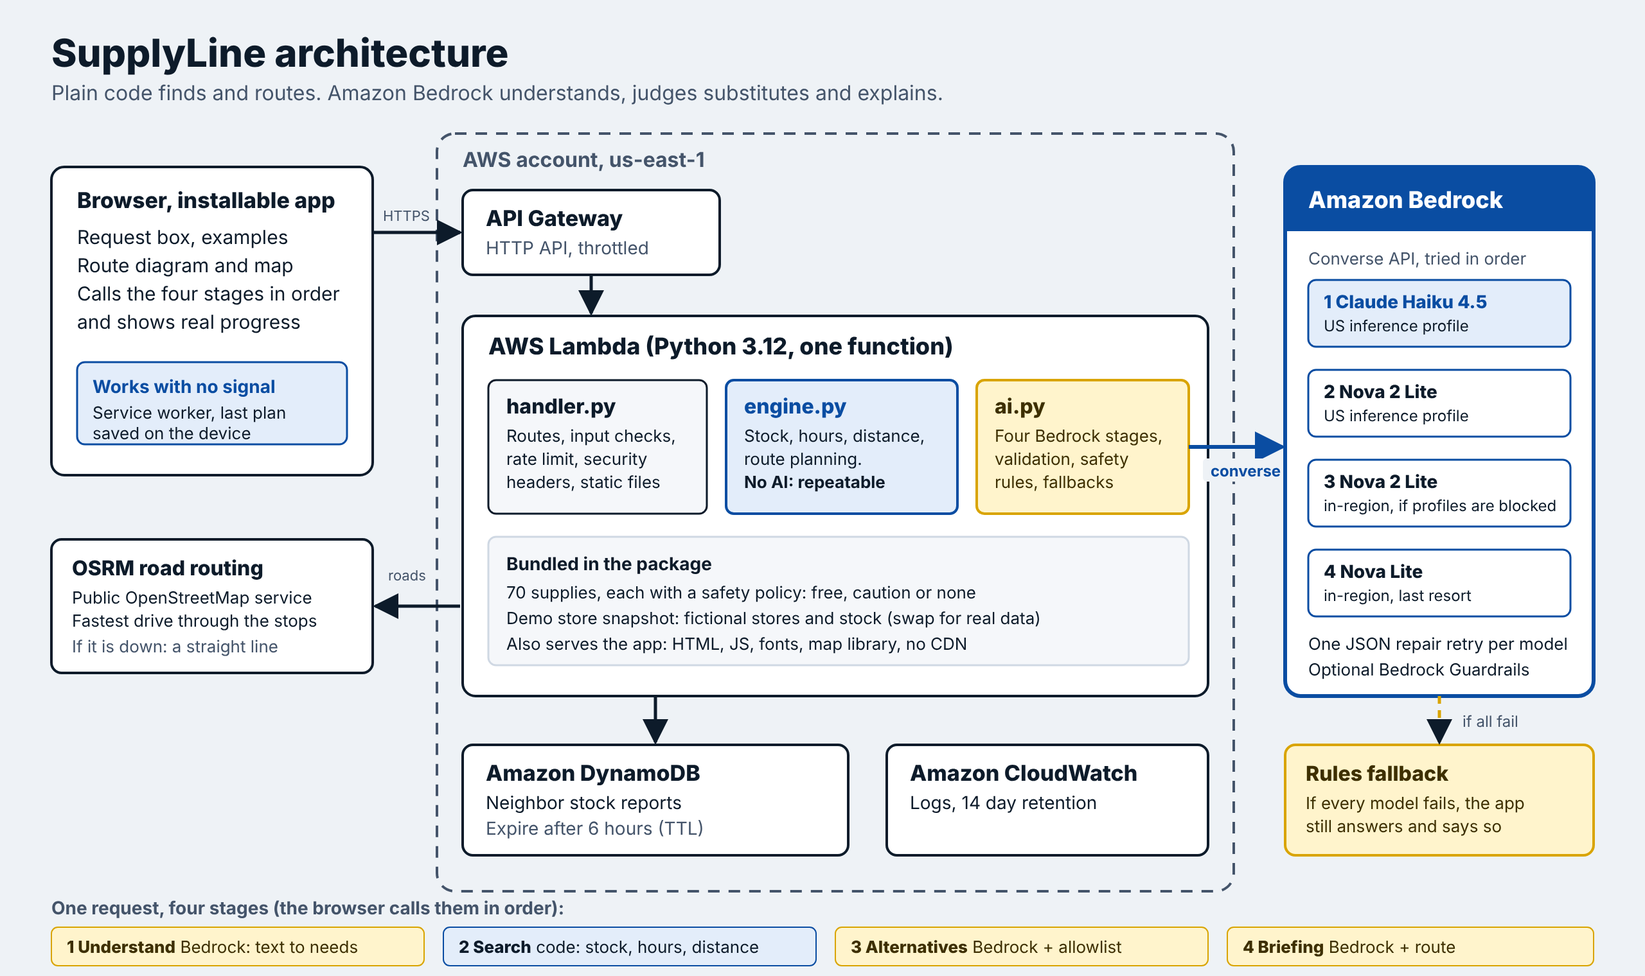
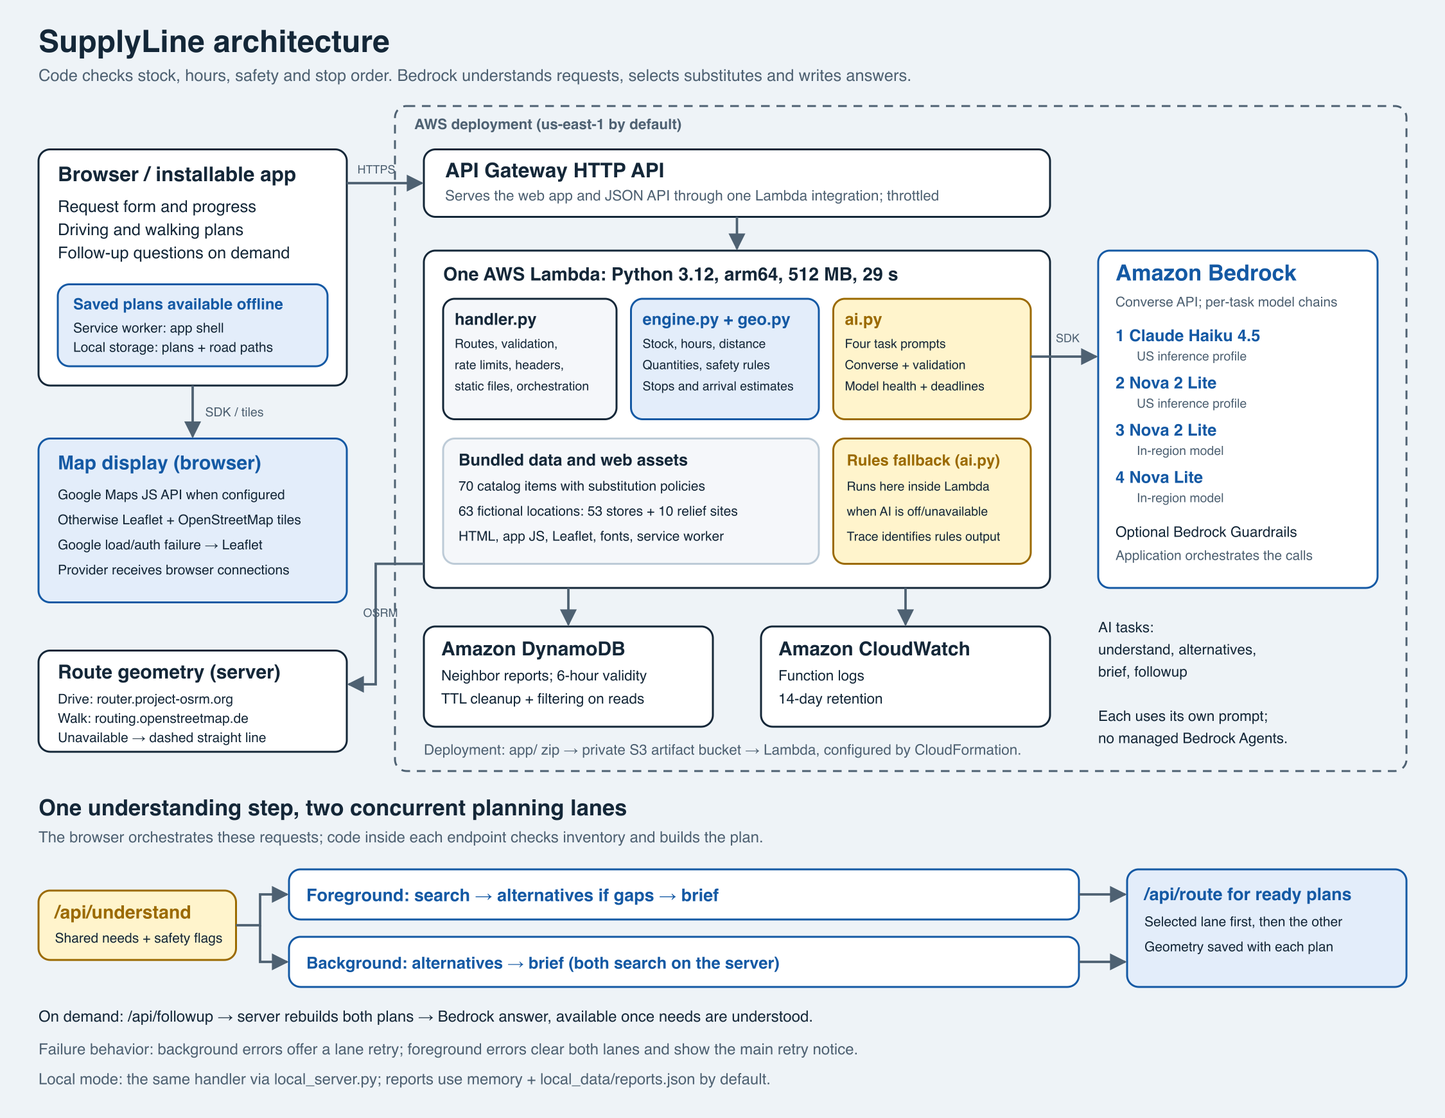
Update architecture documentation and diagram to match the app

Changed region(s): [[0.0, 0.0309, 0.9956, 0.9895]]

diff --git a/docs/ARCHITECTURE.md b/docs/ARCHITECTURE.md
@@ -18,42 +18,46 @@
 
 ## Request flow
 
-Driving and walking are two lanes over the same stores. Each lane is `search` then `alternatives` then `brief`, built by its own agents. After the request is understood the browser starts the lane that is not on screen in the background, while it walks the lane on screen through the four steps below, so both plans take about as long as one and switching is instant. Neither lane waits for the other, and one failing does not stop the other (it shows "unavailable" with a retry). The assistant is a separate agent that reads the situation on the server, so it can answer before either lane is ready.
+Driving and walking are two lanes over the same stores. The browser understands the request once, then starts both lanes concurrently. The foreground lane calls `search`, `alternatives` when gaps exist, and `brief`. The background lane calls `alternatives` and `brief`; both endpoints search again on the server, so it needs no separate `search` request. Each lane gets its own substitutes and briefing calls with its travel mode. Switching to a completed lane needs no new planning calls; a lane still building shows a loading state. The assistant reads the situation on the server and can answer before either lane is ready.
+
+A background failure marks that lane "unavailable" with a retry and leaves the foreground lane alone. A foreground failure invalidates the search, clears both lanes, and shows the main retry notice. Failure isolation is therefore asymmetric.
 
 ```
-understand ─┬─ lane on screen:  search → alternatives → brief → path   (progress steps shown)
-            ├─ other lane:      alternatives → brief → path            (background)
-            └─ assistant:       answers from both plans, any time
+understand ─┬─ foreground: search → alternatives if gaps → brief
+            ├─ background: alternatives → brief (search runs inside both endpoints)
+            └─ assistant: /api/followup on demand, from server-rebuilt plan facts
+
+ready plans → /api/route for the selected lane, then the other lane
 ```
 
-The browser runs four calls in order for the lane on screen, so the progress shown on screen is real and each stage can fail on its own.
+The foreground progress follows these four stages; the alternatives call is skipped when search finds no gaps. The four AI tasks are understand, alternatives, brief and followup; search is plain code.
 
 1. `POST /api/understand` (Bedrock). Free text in, structured needs out. The model may only use catalog item IDs. Output is parsed, cleaned, and merged with a keyword safety net for 911 situations.
 2. `POST /api/search` (code). For each need: stores within the radius, stock at the arrival time, opening hours with a 15 minute closing buffer, snapshot age and confidence, and neighbor reports that override older snapshots.
-3. `POST /api/alternatives` (Bedrock). Only called for items nobody has. The model is shown the pool of substitutes that are **in stock nearby** and, for `caution` items, only the allowlist. Its answer is re-validated in `ai.py` and again in `engine.build_plan`.
+3. `POST /api/alternatives` (code and Bedrock). Repeats the search for that travel mode. If gaps remain, the model receives an in-stock candidate pool and each missing item's policy and, for `caution` items, its allowlist. Its answer is re-validated in `ai.py` and again in `engine.build_plan`. When there are no gaps the endpoint returns without calling Bedrock.
 4. `POST /api/brief` (Bedrock). Writes the briefing from the finished plan. The route itself was already fixed by code.
 
 After the plan is shown, the browser draws the stops on the map at once with a straight dashed line, then calls `POST /api/route` (code, plus a public routing service) to swap in the fastest road route through those stops in the plan's order. If that call fails the dashed line stays and the app says so. The road route is saved with the plan so a saved plan shows it offline.
 
-Every stage takes `mode` (`driving`, the default, or `walking`). `POST /api/plan` runs all four in one call (used by `scripts/smoke.py`); with `"modes": ["driving", "walking"]` it runs the two lanes on separate threads, each with a copy of the request context so the Bedrock deadline still applies, and adds `lanes`. `POST /api/followup` is the assistant: it rebuilds both plans on the server from where the person is and what they need, so it never depends on text the browser could have edited. `POST /api/report` stores a neighbor report.
+Search, alternatives, briefing, routing and follow-up take `mode` (`driving`, the default, or `walking`); understand is shared across modes. `POST /api/plan` is the combined planning endpoint used by `scripts/smoke.py`: it understands once, then calls alternatives and brief, whose server-side searches supply the stock facts. With `"modes": ["driving", "walking"]` it runs those lanes on separate threads, each with a copy of the request context so the Bedrock deadline still applies, and adds `lanes`. It does not fetch road geometry. `POST /api/followup` rebuilds both plans on the server from the supplied location, validated needs and alternatives. If supplied, `plan_text` is also included as context; callers without a valid situation can use that text alone. `POST /api/report` stores a neighbor report.
 
 ## Amazon Bedrock use
 
 * **API:** Converse, with a system prompt per stage, low temperature for the structured stages, and a token cap.
-* **One agent per task:** `ai.AGENTS` gives `understand`, `alternatives`, `brief` and `followup` each their own output size, temperature and time budget, and `BEDROCK_MODEL_IDS_<TASK>` gives one its own model chain. The agents share nothing they change. What a model's health says (not enabled, throttled) is shared by model, because it is true for every task that uses that model. Traces carry the agent and, for the briefing and substitutes agents, the lane (`driving` or `walking`).
+* **One agent per task:** `ai.AGENTS` gives `understand`, `alternatives`, `brief` and `followup` each their own output size, temperature and time budget, and `BEDROCK_MODEL_IDS_<TASK>` gives one its own model chain. These are task-specific Converse calls orchestrated by the application, rather than resources in the managed Amazon Bedrock Agents service. Model health (not enabled, throttled) is shared by model across tasks. Traces carry the agent and, for the briefing and substitutes agents, the lane (`driving` or `walking`).
 * **Model chain:** Claude Haiku 4.5 (US inference profile), Nova 2 Lite (US profile), Nova 2 Lite (in region), Nova Lite (in region). The chain is configurable with `BEDROCK_MODEL_IDS`.
 * **Reliability:** one JSON repair retry per model, then the next model. Access and validation errors are remembered for 15 minutes, throttling for 20 seconds. With no credentials the app skips Bedrock for 60 seconds. Time is bounded by the request, not just the stage: a stage gets at most 24 seconds, and never more than the Lambda invocation has left minus a 3 second reserve for the fallback and the reply (the handler passes in `get_remaining_time_in_millis()`). Each call's SDK timeout is cut to fit the time left, SDK retries are off (`total_max_attempts=1`), and no call or JSON repair starts with less than 5 seconds left, because Lambda ends at 29 seconds and API Gateway at 30.
 * **Guardrails:** pass `GuardrailId` and the Converse call includes `guardrailConfig`. The template then adds `bedrock:ApplyGuardrail` on that guardrail to the function role (`tests/test_template.py` checks this, because the SDK request-shape tests cannot see IAM).
-* **Rules fallback:** every stage has a rules version. When it is used, the trace says `rules` and the reason. The UI never labels rules output as AI.
+* **Rules fallback:** every AI task has a rules version implemented in `ai.py`, inside the same Lambda function. When it is used, the trace says `rules` and the reason. The UI never labels rules output as AI.
 * **Trace:** each stage returns mode, model, milliseconds, token counts and the models it fell back from. The "Under the hood" panel shows this, and `scripts/smoke.py` prints it and fails if a stage fell back.
 
 ## Road routing
 
-`app/roads.py` asks a public OSRM service (OpenStreetMap data) for the fastest route through the points, then returns the path, total time and distance. Driving uses the OSRM demo server, which only routes cars and ignores the profile in the URL. Walking uses the OpenStreetMap community's foot-profile server (`routing.openstreetmap.de/routed-foot`), which can use footpaths and crossings. Each mode has its own cache entries, and a lock guards the cache because the two routes are fetched at the same time. Design choices:
+`app/roads.py` asks a public OSRM service (OpenStreetMap data) for the fastest route through the points, then returns the path, total time and distance. Driving uses the OSRM demo server, which only routes cars and ignores the profile in the URL. Walking uses the OpenStreetMap community's foot-profile server (`routing.openstreetmap.de/routed-foot`), which can use footpaths and crossings. The browser fetches the selected lane's path first, then the other lane's. Each mode has its own cache entries, and a lock guards the cache against concurrent server requests. Design choices:
 
-* **Called from the Lambda, not the browser.** The person's IP address is not sent to a third party, and the Content Security Policy keeps `connect-src 'self'`.
+* **Called from the Lambda.** The browser posts coordinates to `/api/route`, and the server calls OSRM; OSRM receives the server's connection and route coordinates. Map display has separate browser connections to Google Maps when configured, or OpenStreetMap tiles otherwise. The CSP permits those map-provider domains alongside `'self'`.
 * **Fails soft.** Timeouts, errors and odd answers all become "unavailable". The endpoint still returns 200 with `available: false`, so the browser quietly keeps the straight line.
-* **Validated and cached.** 2 to 8 numeric points, each hop under 80 km, an in-memory cache of 200 routes for 10 minutes, and the shared per-IP rate limit.
+* **Validated and cached.** 2 to 8 numeric points, each hop at most 80 km driving or 15 km walking, an in-memory cache bounded by 200 routes and 100,000 total path vertices for 10 minutes, and the shared per-IP rate limit.
 * **Swappable.** `fetch_route()` is the only place that knows about OSRM. Amazon Location Service `CalculateRoutes` could replace it with the same return shape. `ROAD_ROUTING=off` disables it.
 * **Not the source of truth for the plan.** Stop order, arrival times and opening-hours checks still come from `engine.py`. The road time on the map is shown as information and can differ from the plan's estimate.
 
@@ -78,7 +82,8 @@ Found and fixed during testing: a client-supplied verdict was trusted, the fallb
 ## Data
 
 * `catalog.json`: 70 supplies with category, tags, aliases, policy and notes.
-* `stores.json`: 53 fictional stores in 16 San José area neighborhoods with hours and stock snapshots. Generated by `scripts/gen_data.py` with seed 2026. Panic-buying shortages are placed around downtown (water, D batteries, 1 lb propane, powder formula and generators are out within 9 km) so substitutes matter in the demo. Six stores are closed and eight have limited stock.
+* `stores.json`: 63 fictional locations: 53 stores plus 10 crisis-relief sites (food banks, shelters, distribution points and cooling/charging centers) across 16 San José area neighborhoods, with hours and stock snapshots. Generated by `scripts/gen_data.py` with seed 2026. Panic-buying shortages affect stores around downtown (water, D batteries, 1 lb propane, powder formula and generators are out within 9 km), while relief sites provide additional demo options. Six stores are closed and eight have limited stock.
+* Neighbor reports live in DynamoDB on AWS. Locally, `LocalReportStore` keeps them in memory and mirrors them to `local_data/reports.json` by default (`REPORTS_FILE` overrides the path). Recent reports are filtered to their 6-hour lifetime when read; DynamoDB also has TTL cleanup configured.
 * To use real data, replace the loader in `engine.py` with a call to a retailer or inventory API. Nothing else depends on the file.
 
 ## AWS resources (`infra/template.yaml`)
@@ -96,7 +101,9 @@ Why one Lambda: for a prototype it is the least to deploy and explain. The handl
 
 ## Front end
 
-Vanilla JavaScript, no build step. Leaflet is vendored so the app does not depend on a CDN. A service worker caches the app shell, and the last plan is saved on the device so it can be read with no signal. Fonts are served from the Lambda. Content Security Policy is set by the handler.
+Vanilla JavaScript, no build step. `maps.js` provides a shared interface for Google Maps and Leaflet. With `GOOGLE_MAPS_API_KEY` configured, the browser loads the Google Maps JavaScript API and map resources directly. Without a key, or if Google fails to load or authorize, it uses bundled Leaflet with OpenStreetMap tiles. Map rendering does not determine stock, stop order, arrival estimates or OSRM route geometry. `GOOGLE_MAPS_MAP_ID` configures the Google map; the local server reads both map settings from environment variables or `.env.local`.
+
+The application scripts, Leaflet and fonts are served from the Lambda. A service worker caches the app shell; local storage holds the last plan, completed travel lanes and fetched road geometry for offline reading. API responses and third-party map resources are not cached by the service worker, so offline use does not provide fresh stock or a downloaded basemap. Content Security Policy is set by the handler, with Google map-provider domains allowed to support the optional integration.
 
 ## Hardening
 

diff --git a/README.md b/README.md
@@ -83,15 +83,17 @@ bash scripts/destroy.sh               # remove everything when you are done
 
 `deploy.sh` builds a zip of `app/`, uploads it to a private S3 bucket, and runs CloudFormation (`infra/template.yaml`). The stack creates one Lambda function (Python 3.12, arm64) behind an API Gateway HTTP API, a DynamoDB table with a 6-hour TTL for neighbor reports, a log group with 14-day retention, and a least-privilege IAM role.
 
-Optional settings (environment variables for `deploy.sh`): `AWS_REGION`, `STACK_NAME`, `BEDROCK_REGION`, `BEDROCK_MODEL_IDS` (comma separated), `GUARDRAIL_ID`.
+Optional settings (environment variables for `deploy.sh`): `AWS_REGION`, `STACK_NAME`, `BEDROCK_REGION`, `BEDROCK_MODEL_IDS` (comma separated), `GUARDRAIL_ID`, `GOOGLE_MAPS_API_KEY`, `GOOGLE_MAPS_MAP_ID`, `INVENTORY_SNAPSHOT_TS`.
+
+The browser uses Google Maps when `GOOGLE_MAPS_API_KEY` is configured, and falls back to the bundled Leaflet library with OpenStreetMap tiles if the key is absent or Google Maps fails. For local use, put `GOOGLE_MAPS_API_KEY` and optionally `GOOGLE_MAPS_MAP_ID` in `.env.local`, or export them before starting the server. The Google Maps browser key is sent to the page; restrict it to your website in Google Cloud. Map display is separate from the server's OSRM calls for driving and walking route geometry.
 
 Road routing can be tuned on the function with `ROAD_ROUTING=off` (never call a routing service, for walking or driving), `ROAD_ROUTING_URL` (point driving at your own OSRM-compatible server) or `ROAD_ROUTING_WALK_URL` (the same for walking; it must serve a foot profile).
 
 ### One AI agent per task
 
-Each task has its own agent with its own prompt, output size, temperature and time budget, and you can give it its own models. Set `BEDROCK_MODEL_IDS_<TASK>` on the function (comma separated, like `BEDROCK_MODEL_IDS`) for `UNDERSTAND`, `ALTERNATIVES`, `BRIEF` or `FOLLOWUP`, for example a smaller, faster model for the short answers of `FOLLOWUP`. A task with no setting uses `BEDROCK_MODEL_IDS`, then the defaults below. `/api/health` lists every agent and its models.
+Each task has its own agent with its own prompt, output size, temperature and time budget, and you can give it its own models. These are task-specific Converse calls orchestrated by Python and browser code; the app does not use the managed Amazon Bedrock Agents service. Set `BEDROCK_MODEL_IDS_<TASK>` on the function (comma separated, like `BEDROCK_MODEL_IDS`) for `UNDERSTAND`, `ALTERNATIVES`, `BRIEF` or `FOLLOWUP`, for example a smaller, faster model for the short answers of `FOLLOWUP`. A task with no setting uses `BEDROCK_MODEL_IDS`, then the defaults below. `/api/health` lists every agent and its models.
 
-The driving and walking plans are built at the same time, each by its own substitutes and briefing agents, so asking for both takes about as long as asking for one. In the browser the plan on screen is built step by step and the other one in the background, so switching is instant. The assistant reads your situation on the server, so it can answer as soon as your request is understood, before either plan is ready.
+After understanding the request once, the browser builds driving and walking plans concurrently, each with separate substitutes and briefing calls. The foreground plan shows progress through search, alternatives when needed, and briefing; the background plan searches inside its alternatives and briefing endpoints. Switching to a completed plan needs no new planning calls; a plan still building shows a loading state. A background failure leaves the foreground plan available and offers a retry. A foreground failure clears both plans for that search and shows the main retry notice. The assistant reads your situation on the server, so it can answer as soon as your request is understood, before either plan is ready.
 
 ### Which models
 
@@ -115,10 +117,10 @@ The stack also allows the function role `bedrock:ApplyGuardrail` on that one gua
 | Rubric item | Where to see it |
 |---|---|
 | Real persona and need (20) | Maria above. Wildfire, insulin and a baby are the first example in the app. |
-| Working app (25) | Live URL after `deploy.sh`. Works offline for the last plan. 4 automated test files. |
+| Working app (25) | Live URL after `deploy.sh`. Saved plans work offline. Automated backend and browser regression suites. |
 | AWS AI use (20) | Four Bedrock stages (understand, alternatives, briefing, follow-up) via the Converse API, with a model fallback chain, optional Guardrails, and a trace panel ("Under the hood: what Bedrock did", folded away by default) that shows the model, time and tokens for each call. |
 | Understanding what you built (15) | [docs/ARCHITECTURE.md](docs/ARCHITECTURE.md): what is code, what is the model, and why. |
-| Polish (10) | Accessible, mobile first, installable, prints, no external CDN (only map tile images come from OpenStreetMap), checked at phone width. |
+| Polish (10) | Accessible, mobile first, installable, prints, bundled app scripts, fonts and Leaflet, checked at phone width. Google Maps loads externally when configured; the fallback loads OpenStreetMap tiles. |
 | Above and beyond (10) | Safety policy per item, stock freshness, open-on-arrival checks, urgency-weighted routing, neighbor reports with expiry, graceful fallback, one-command deploy and teardown. |
 
 The video script is in [docs/DEMO_SCRIPT.md](docs/DEMO_SCRIPT.md).
@@ -149,10 +151,10 @@ app/
   ai.py          Amazon Bedrock stages, validation, model fallback, rules fallback
   roads.py       Driving and walking routes for the map (public OSRM services, fail soft)
   road_transport.py  HTTPS fetch, with a native Windows fallback for connection failures
-  store.py       Neighbor reports (DynamoDB, or in memory locally)
+  store.py       Neighbor reports (DynamoDB on AWS; memory + JSON file by default locally)
   geo.py         Distance, and travel time for driving and walking
   data/          catalog.json, stores.json, places.json (generated)
-  static/        The web app: index.html, app.js, styles.css, service worker, map, fonts
+  static/        The web app, service worker, map adapters (maps.js), bundled Leaflet and fonts
 infra/template.yaml   CloudFormation stack
 scripts/              deploy.sh, destroy.sh, smoke.py, gen_data.py
 tests/                Engine, AI, handler and AWS request-shape tests
@@ -188,7 +190,7 @@ GitHub Actions runs the backend and browser regressions on Linux and Windows. Th
 | Every model fails but the first few worked before | Throttling. Failures are remembered for 20 seconds, then retried. |
 | Error about an inference profile or `us.` model | Your account may block cross-region profiles. The chain already falls through to in-region Nova models. Or set `BEDROCK_MODEL_IDS` to a model you can use. |
 | `no credentials` in the trace | Export credentials (local) or check the Lambda role (deployed). The app answers with rules in the meantime. |
-| Request takes too long | The Lambda limit is 29 seconds (the API Gateway limit). Each stage may use up to 24 seconds of model time, never more than the request has left minus a 3 second reserve. Each call gets a timeout that fits in the time left, the SDK never retries on its own, and no call or JSON repair starts with under 5 seconds left. Then the app falls back to rules. |
+| Request takes too long | Lambda is configured with a 29-second timeout and the API Gateway integration with 30 seconds. Each stage may use up to 24 seconds of model time, never more than the request has left minus a 3 second reserve. Each call gets a timeout that fits in the time left, the SDK never retries on its own, and no call or JSON repair starts with under 5 seconds left. Then the app falls back to rules. |
 | The map line is dashed and straight | The routing service could not be reached (the function may have no internet, or the free service is busy). The dashed line connects stops; it is not a driving route. Click **Retry road route** or open **Turn-by-turn in Google Maps**. Transient routing failures are retried once automatically. |
 | Map background blank | Map tiles come from OpenStreetMap and need a network. They also need the browser to send a Referer, so the app sets `Referrer-Policy: strict-origin-when-cross-origin`. A privacy extension that strips Referer will blank the tiles. The app shows a notice, and the route, stops and list still work. |
 | `deploy.sh` fails on the bucket | Set `ARTIFACT_BUCKET` to a bucket you own, or check your credentials with `aws sts get-caller-identity`. |

diff --git a/.kiro/steering/project.md b/.kiro/steering/project.md
@@ -12,7 +12,7 @@ SupplyLine helps a household find open stores with stock during a disaster, and 
 6. **No secrets and no personal data in code, logs or the front end.**
 7. **Demo data is fictional.** Never describe it as real inventory.
 
-8. **The browser only talks to our own function** (plus OpenStreetMap map tiles). Third-party services such as road routing (`app/roads.py`) are called from the Lambda, never directly from the page, and must fail soft: the app keeps working without them. Keep the CSP `connect-src 'self'`.
+8. **Planning API calls go to our own function.** Road routing (`app/roads.py`) is called from the Lambda and must fail soft: the app keeps working without it. Map display is separate: the browser may load Google Maps when configured, with bundled Leaflet and OpenStreetMap tiles as fallback. Keep the CSP limited to our origin and the map-provider domains needed by `app/static/maps.js`.
 
 ## Layout
 
@@ -31,7 +31,7 @@ SupplyLine helps a household find open stores with stock during a disaster, and 
 ## Style
 
 * Python 3.12, standard library first. boto3 is provided by the Lambda runtime, so do not bundle it.
-* Front end: no framework, no CDN, no inline scripts (the CSP blocks them). Escape everything inserted into the page.
+* Front end: no framework; bundle app scripts, Leaflet and fonts. The optional Google Maps SDK loads from Google. Keep application scripts external and preserve the handler's CSP nonce support for the map SDK. Escape everything inserted into the page.
 * Plain language in the UI, readable by a stressed person on a phone.
 * Add a test for every bug that is fixed, especially anything touching the safety policy.
 
